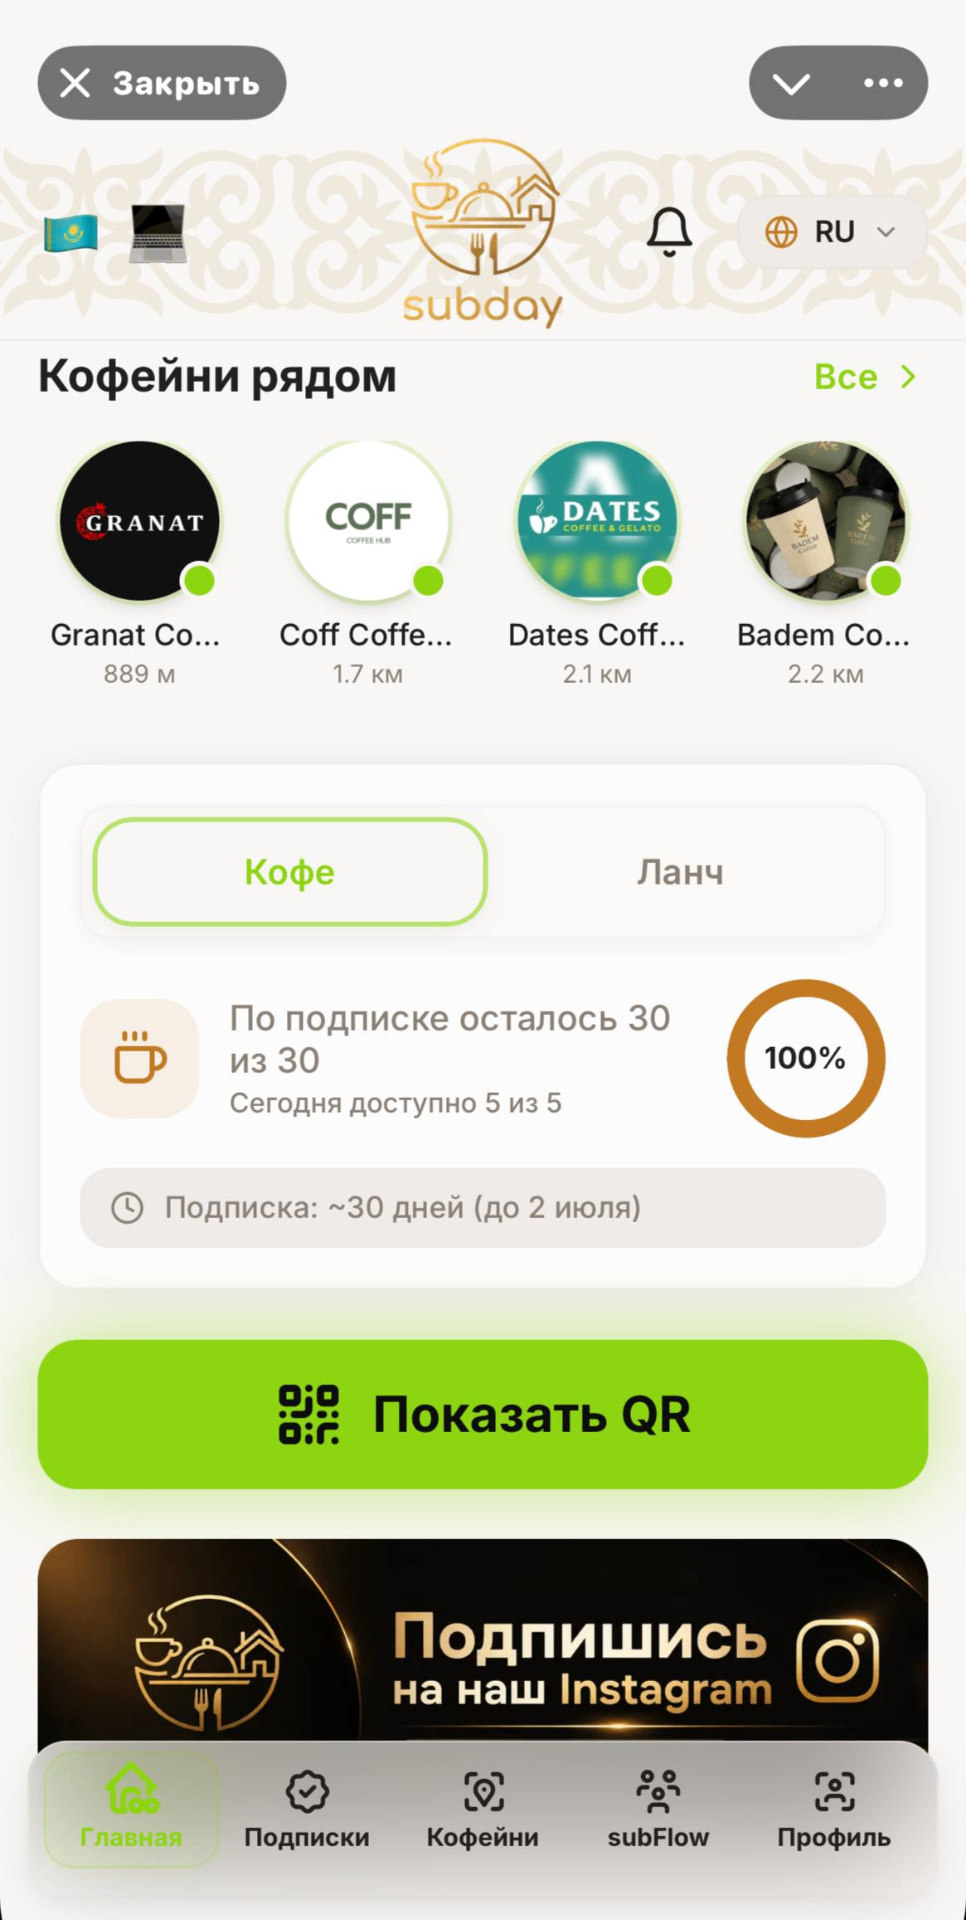
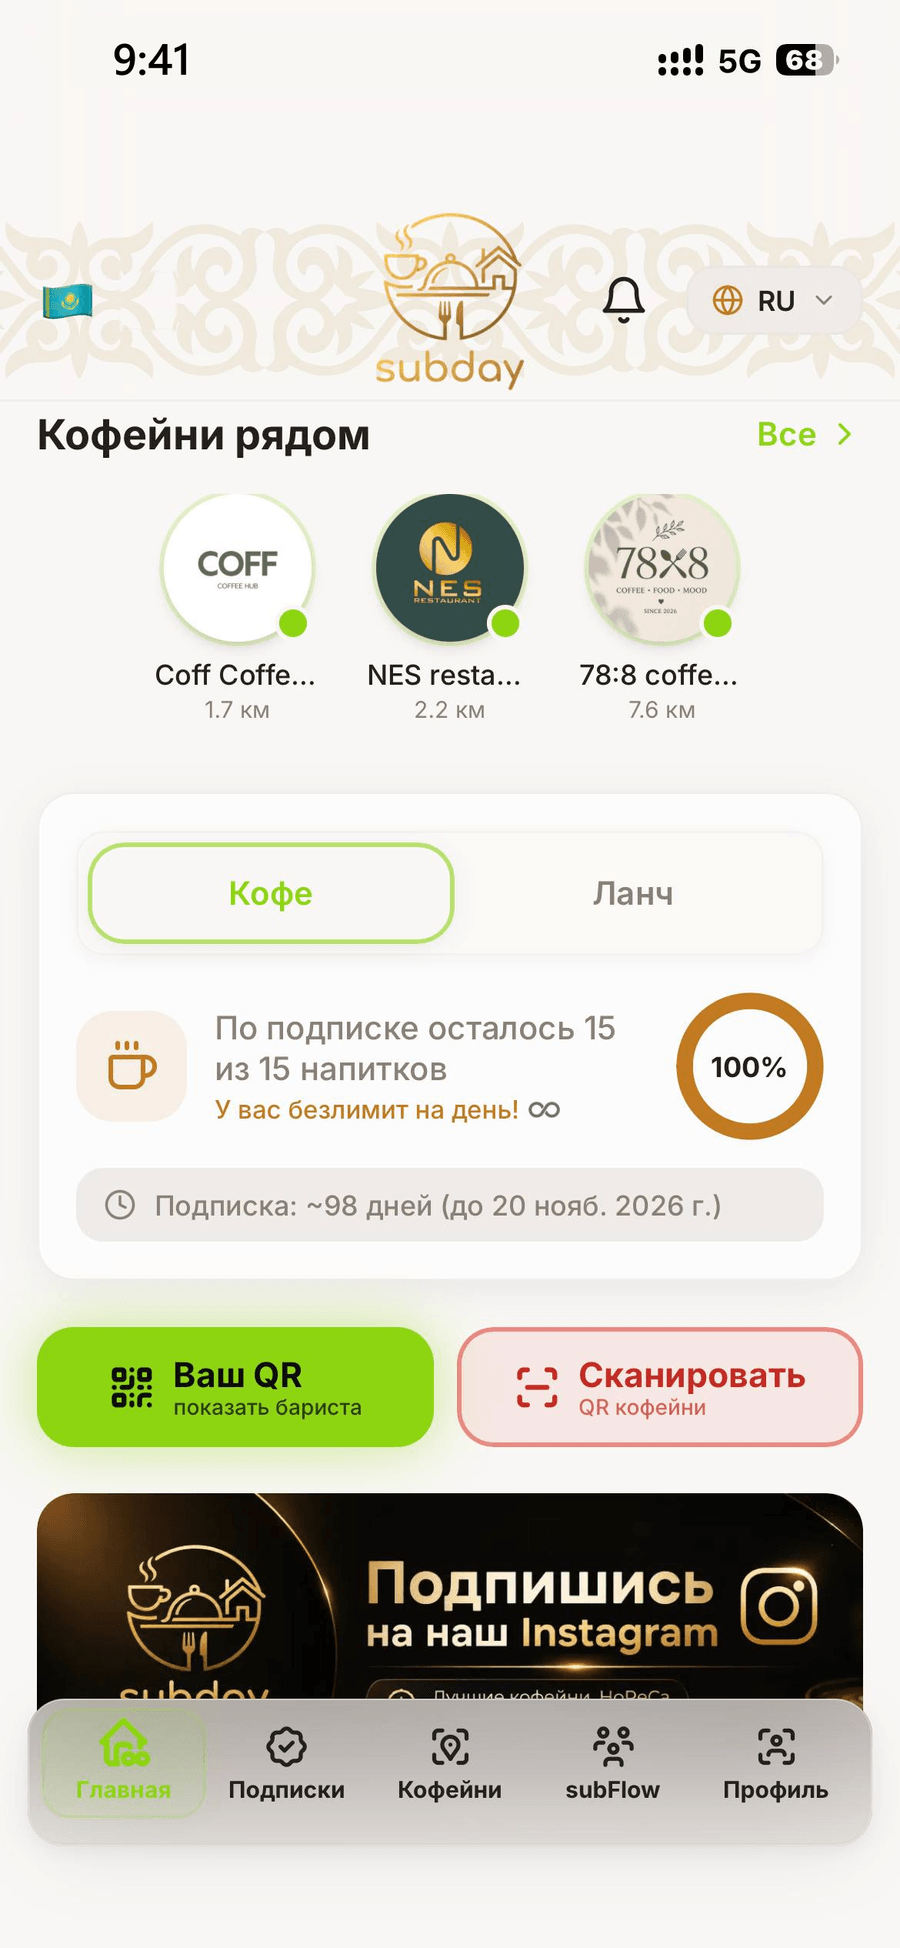
feat: уход с Lovable — своя база, свои картинки, свежий мокап
Клиент смотрит на api.subday.app, таблицы сайта — в отдельной схеме
landing: в общей public его user_roles/app_role/has_role столкнулись бы
с приложением, где роли совсем другие. Схема задана один раз в клиенте,
поэтому запросы в коде не поменялись.

submit-lead переписана под наш рантайм: секреты приходят заголовком
x-worker-env, а не из Deno.env.

Мокап главного экрана заменён на актуальный. Со скриншота убраны два
следа съёмки: зелёная плашка записи экрана (вместо неё обычные часы) и
кнопка админки — обычный пользователь её не видит. Ноутбук стоял на
казахском орнаменте, поэтому дыра закрыта подобранным по краям куском
той же полосы, а не заливкой.

diff --git a/supabase/functions/submit-lead/index.ts b/supabase/functions/submit-lead/index.ts
@@ -7,6 +7,10 @@ const corsHeaders = {
 };
 
 Deno.serve(async (req) => {
+  // На самохостовом сервере ключи приходят заголовком x-worker-env — в Deno.env
+  // их нет. Разбираем один раз в начале, дальше используем как запасной источник.
+  let workerEnv: Record<string, string> = {};
+  try { workerEnv = JSON.parse(req.headers.get("x-worker-env") || "{}"); } catch { /* ignore */ }
   if (req.method === "OPTIONS") {
     return new Response(null, { headers: corsHeaders });
   }
@@ -30,8 +34,11 @@ Deno.serve(async (req) => {
     }
 
     const supabase = createClient(
-      Deno.env.get("SUPABASE_URL")!,
-      Deno.env.get("SUPABASE_SERVICE_ROLE_KEY")!
+      Deno.env.get("SUPABASE_URL") || workerEnv["SUPABASE_URL"]!,
+      Deno.env.get("SUPABASE_SERVICE_ROLE_KEY") || workerEnv["SUPABASE_SERVICE_ROLE_KEY"]!,
+      // Таблицы сайта живут в отдельной схеме: в общей public их имена
+      // столкнулись бы с приложением.
+      { db: { schema: "landing" } }
     );
 
     // Insert lead

diff --git a/src/integrations/supabase/client.ts b/src/integrations/supabase/client.ts
@@ -1,4 +1,9 @@
-// This file is automatically generated. Do not edit it directly.
+// Подключение к нашей базе на api.subday.app.
+//
+// Таблицы сайта живут в отдельной схеме landing: в общей public их имена
+// (user_roles, app_role, has_role) столкнулись бы с приложением, где роли
+// совсем другие. Схема указана здесь один раз, поэтому в коде запросы
+// остались прежними — from('site_pages') и так далее.
 import { createClient } from '@supabase/supabase-js';
 import type { Database } from './types';
 
@@ -9,6 +14,7 @@ const SUPABASE_PUBLISHABLE_KEY = import.meta.env.VITE_SUPABASE_PUBLISHABLE_KEY;
 // import { supabase } from "@/integrations/supabase/client";
 
 export const supabase = createClient<Database>(SUPABASE_URL, SUPABASE_PUBLISHABLE_KEY, {
+  db: { schema: 'landing' },
   auth: {
     storage: localStorage,
     persistSession: true,
